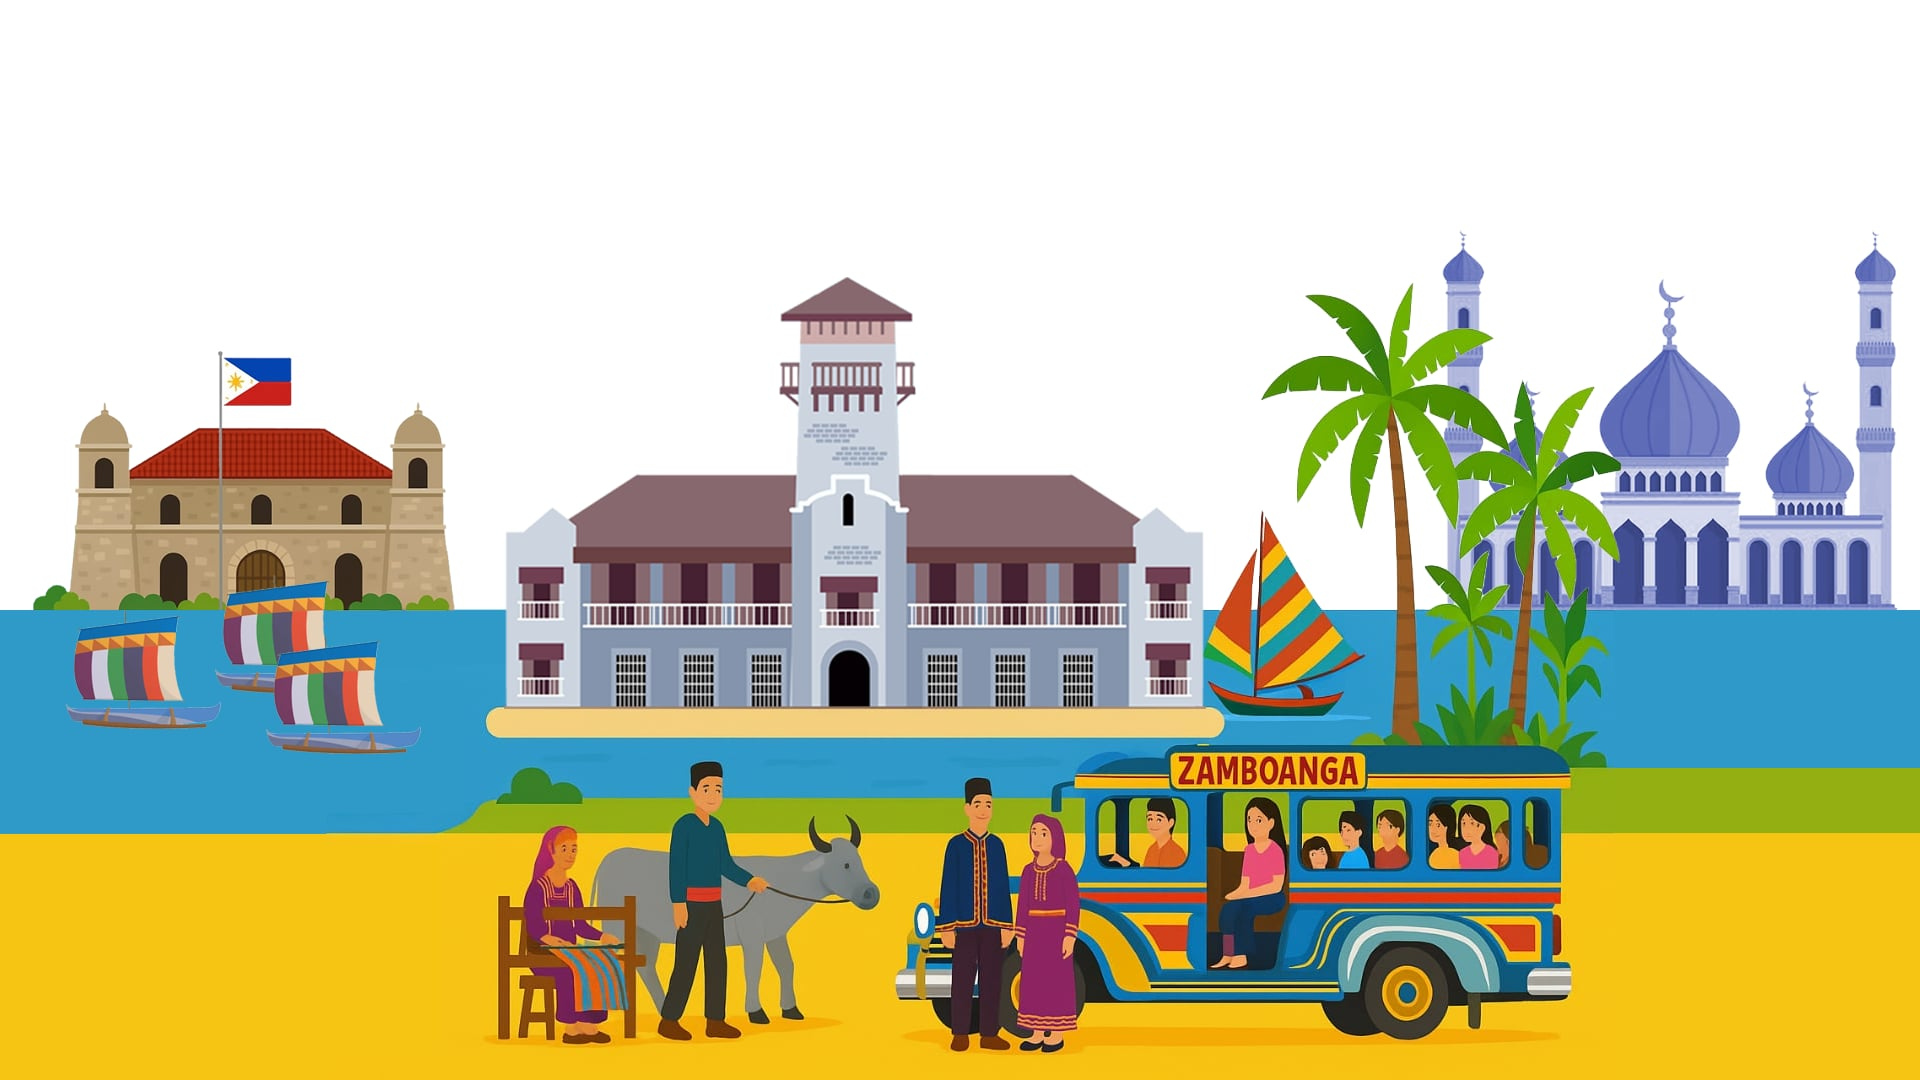
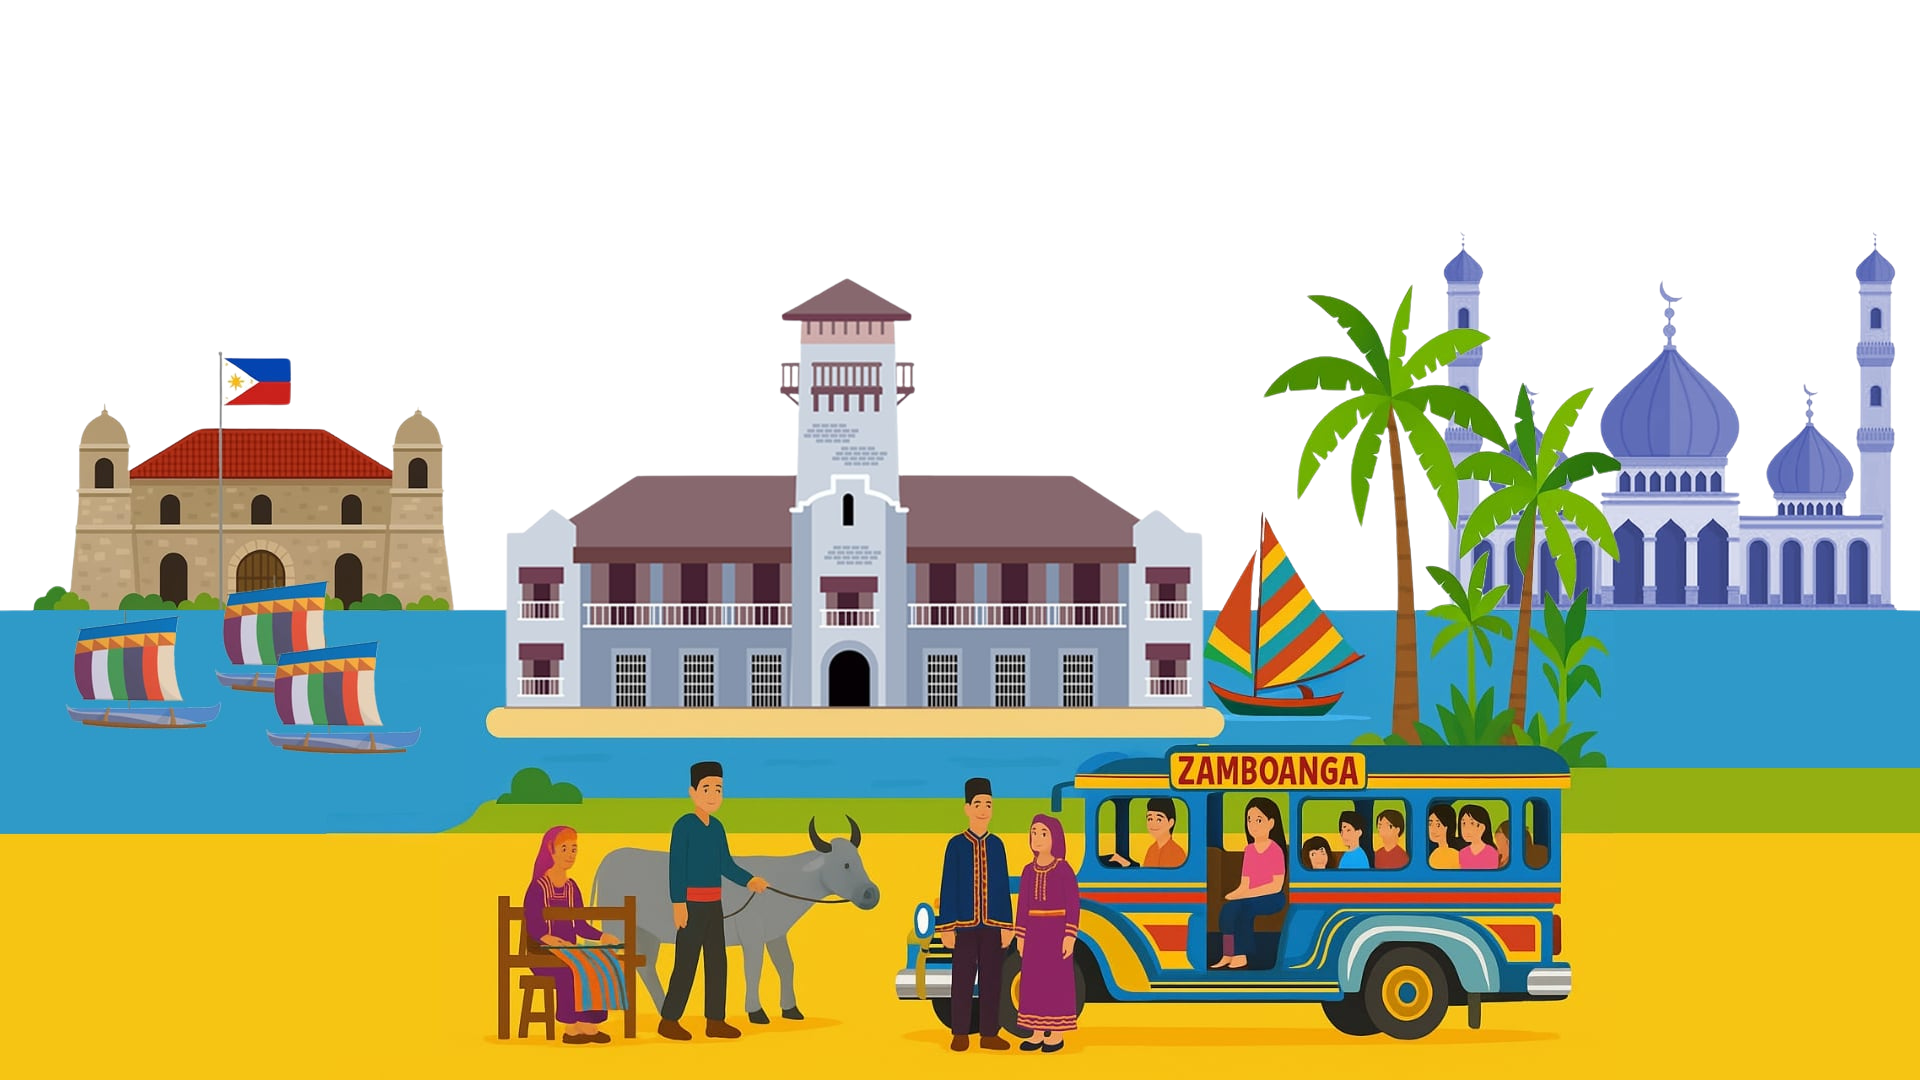
updated landing images

diff --git a/resources/js/Pages/Welcome.vue b/resources/js/Pages/Welcome.vue
@@ -16,11 +16,20 @@
                         <li class="nav-item"><a class="nav-link" href="/hotels" target="_self">Hotels</a></li>
                         <li class="nav-item"><a class="nav-link" href="#about" target="_self">About Us</a></li>
                         <li class="nav-item"><a class="nav-link" href="#contact" target="_self">Contact</a></li>
+                           <li class="nav-item">
+                            <div>
+                                <b-dropdown variant="light" id="dropdown-header" text="Downloadables" class="m-2">
+                                    <b-dropdown-item-button aria-describedby="dropdown-header-label">
+                                    Media Brief
+                                    </b-dropdown-item-button>
+                                    <b-dropdown-item-button aria-describedby="dropdown-header-label">
+                                        <a href="">Programme</a>
+                                    </b-dropdown-item-button>
+                                </b-dropdown>
+                            </div>
+                        </li>
                     </ul>
-                    <div class="">
-                        <!-- <a href="/auth/signin-basic" class="btn btn-link fw-medium text-decoration-none text-dark">Sign in</a> -->
-                        <a href="/registration-form" class="btn btn-primary">Register</a>
-                    </div>
+                   
                 </div>
             </div>
         </nav>
@@ -95,119 +104,20 @@
                     </b-col>
                 </b-row>
             </b-container>
-        </section>
-
-
-
-         <section class="section" id="schedules">
-        <div class="container"
-            data-aos="flip-left"
-            data-aos-duration="5000"
-            data-aos-delay="500"
-        >
-             <div class="row justify-content-center">
-                    <div class="col-lg-8">
-                        <div class="text-center mb-5">
-                            <h3 class="mb-1 fs-18 fw-semibold">Explore the List of Events and Sessions</h3>
-                            <p class="text-muted fs-14 mb-4">Browse scheduled sessions with simple details. Locations viewable via Google Maps.</p>
-                        </div>
-                    </div>
-                </div>
-            <div class="row justify-content-center">
-            <div class="col-lg-12">
-                <div class="position-relative home-img text-center mt-5 mt-lg-0">
-                <div class="live-preview">
-                    <div id="scheduleCarousel" class="carousel slide" data-bs-ride="carousel" data-bs-interval="5000">
-                    <!-- Indicators -->
-                    <div class="carousel-indicators">
-                        <button type="button" data-bs-target="#scheduleCarousel" data-bs-slide-to="0" class="active" aria-current="true" aria-label="Slide 1"></button>
-                        <button type="button" data-bs-target="#scheduleCarousel" data-bs-slide-to="1" aria-label="Slide 2"></button>
-                        <button type="button" data-bs-target="#scheduleCarousel" data-bs-slide-to="2" aria-label="Slide 3"></button>
-                        <button type="button" data-bs-target="#scheduleCarousel" data-bs-slide-to="3" aria-label="Slide 4"></button>
-                    </div>
-
-                    <!-- Slides -->
-                    <div class="carousel-inner">
-                        <div class="carousel-item active">
-                        <img class="d-block w-100" src="@assets/images/event/sched1.png" loading="eager" alt="Schedule 1">
-                        </div>
-                        <div class="carousel-item">
-                        <img class="d-block w-100" src="@assets/images/event/sched2.png" loading="eager" alt="Schedule 2">
-                        </div>
-                        <div class="carousel-item">
-                        <img class="d-block w-100" src="@assets/images/event/sched3.png" loading="eager" alt="Schedule 3">
-                        </div>
-                        <div class="carousel-item">
-                        <img class="d-block w-100" src="@assets/images/event/sched4.png" loading="eager" alt="Schedule 4">
-                        </div>
-                    </div>
-
-                    <!-- Controls -->
-                    <button class="carousel-control-prev" type="button" data-bs-target="#scheduleCarousel" data-bs-slide="prev">
-                        <span class="carousel-control-prev-icon" aria-hidden="true"></span>
-                        <span class="visually-hidden">Previous</span>
-                    </button>
-                    <button class="carousel-control-next" type="button" data-bs-target="#scheduleCarousel" data-bs-slide="next">
-                        <span class="carousel-control-next-icon" aria-hidden="true"></span>
-                        <span class="visually-hidden">Next</span>
-                    </button>
-                    </div>
-                </div>
-                </div>
-            </div>
-            </div>
-        </div>
-        </section>
-
-        <section class="section" id="process">
-            <div class="container">
-                <div class="row justify-content-center">
-                    <div class="col-lg-8">
-
-                    </div>
-                </div>
-                
-            </div>
-        </section>
-        
-        <section class="py-5 bg-primary position-relative">
-            <div class="bg-overlay bg-overlay-pattern opacity-50"></div>
-            <b-container class="hidemobile">
-                <b-row class="align-items-center gy-4">
-                    <b-col sm>
-                        <div>
-                            <h4 class="text-white mb-0 fw-semibold">Be one of our Participants!</h4>
-                        </div>
-                    </b-col>
-                    <b-col sm="auto">
-                        <div>
-                            <button type="button" @click="openRegister()" class="btn bg-gradient btn-danger">REGISTER NOW</button>
-                        </div>
-                    </b-col>
-                </b-row>
-            </b-container>
-            <b-container class="showmobile"> 
-                <b-row class="align-items-center gy-3">
-                <div class="d-grid mt-n3 mb-n5" >
-                   
-                    <BButton type="button" @click="openRegister()" variant="warning" class="submit-btn w-80 h-100 fw-semibold">REGISTER NOW</BButton>
-                    
-                </div></b-row>
-            </b-container>
-        </section>
+        </section>>
+    
 
         <section class="section">
             <div class="container">
                 <div class="row justify-content-center">
                     <div class="col-lg-8">
-                        <div class="text-center mb-5">
+                        <div class="text-center mb-0">
                             <h3 class="mb-1 fs-18 fw-semibold">Events About</h3>
-                            <p class="text-muted fs-14 mb-4">Read and Enjoy!</p>
+                            <p class="text-muted fs-14 mb-4">Explore and Enjoy!</p>
                         </div>
                     </div>
                 </div>
              
-
                 <div class="row align-items-center mt-5 gy-4">
                     <div class="col-sm-7 col-lg-6 col-10 mx-auto">
                         <div><img src="/images/banner/rstw.jpg" alt="" class="img-fluid"></div>
@@ -237,8 +147,31 @@
             </div>
         </section>
 
-
-
+           <section class="py-5 bg-primary position-relative">
+            <div class="bg-overlay bg-overlay-pattern opacity-50"></div>
+            <b-container class="hidemobile">
+                <b-row class="align-items-center gy-4">
+                    <b-col sm>
+                        <div>
+                            <h4 class="text-white mb-0 fw-semibold">Be one of our Participants!</h4>
+                        </div>
+                    </b-col>
+                    <b-col sm="auto">
+                        <div>
+                            <button type="button" @click="openRegister()" class="btn bg-gradient btn-danger">REGISTER NOW</button>
+                        </div>
+                    </b-col>
+                </b-row>
+            </b-container>
+            <b-container class="showmobile"> 
+                <b-row class="align-items-center gy-3">
+                <div class="d-grid mt-n3 mb-n5" >
+                   
+                    <BButton type="button" @click="openRegister()" variant="warning" class="submit-btn w-80 h-100 fw-semibold">REGISTER NOW</BButton>
+                    
+                </div></b-row>
+            </b-container>
+        </section>
           <section class="py-5 position-relative" id="about">
             <b-container class="mt-4">
                 <b-row>
@@ -273,9 +206,7 @@
         
         </section>
 
-
-         <section id="venue" class="py-5 position-relative section zc-bg" 
-
+         <section id="venue" class="py-0  bg-primary position-relative section header-bg"
             data-aos="fade-up" 
             data-aos-duration="5000" 
             data-aos-delay="500">
@@ -289,8 +220,9 @@
                     <img src="@assets/images/event/zc_bg.png" class="img-fluid w-100" alt="Full width image">
                 </b-row>
             </b-container>
-        
         </section>
+            </div>
+
 
         <footer class="custom-footer bg-dark py-5 position-relative" id="contact">
             <b-container>
@@ -389,9 +321,9 @@
         <b-button variant="danger" @click="topFunction" class="btn-icon" id="back-to-top">
             <i class="ri-arrow-up-line"></i>
         </b-button>
-    </div>
+   
 
- <BModal v-model="showModal" style="--vz-modal-width: 800px;" hide-footer body-class="p-0" header-class="p-0"
+     <BModal v-model="showModal" style="--vz-modal-width: 800px;" hide-footer body-class="p-0" header-class="p-0"
         class="v-modal-custom" content-class="border-0 overflow-hidden" centered hide-header-close>
         <div class="modal-body login-modal p-5">
             <h5 class="text-white fs-18 mb-1 mt-n4">Registration Form</h5>
@@ -423,7 +355,6 @@
         <div class="modal-body p-5">
             <form class="customform">
                 <BRow class="g-3" style="margin-top: -35px;"> 
-                    
                    <BCol lg="6" class="mt-1">
                         <InputLabel for="name" value="Email Address" :message="form.errors.email"/>
                         <TextInput id="name" v-model="form.email" type="text" class="form-control" placeholder="Please enter email" @input="handleInput('email')" style="text-transform: lowercase;" :light="true"/>

diff --git a/resources/js/Pages/Welcome2.vue b/resources/js/Pages/Welcome2.vue
@@ -16,6 +16,18 @@
                         <li class="nav-item"><a class="nav-link" href="/hotels" target="_self">Hotels</a></li>
                         <li class="nav-item"><a class="nav-link" href="#about" target="_self">About Us</a></li>
                         <li class="nav-item"><a class="nav-link" href="#contact" target="_self">Contact</a></li>
+                           <li class="nav-item">
+                            <div>
+                                <b-dropdown variant="light" id="dropdown-header" text="Downloadables" class="m-2">
+                                    <b-dropdown-item-button aria-describedby="dropdown-header-label">
+                                    Media Brief
+                                    </b-dropdown-item-button>
+                                    <b-dropdown-item-button aria-describedby="dropdown-header-label">
+                                        <a href="">Programme</a>
+                                    </b-dropdown-item-button>
+                                </b-dropdown>
+                            </div>
+                        </li>
                     </ul>
                     <div class="">
                         <!-- <a href="/auth/signin-basic" class="btn btn-link fw-medium text-decoration-none text-dark">Sign in</a> -->
